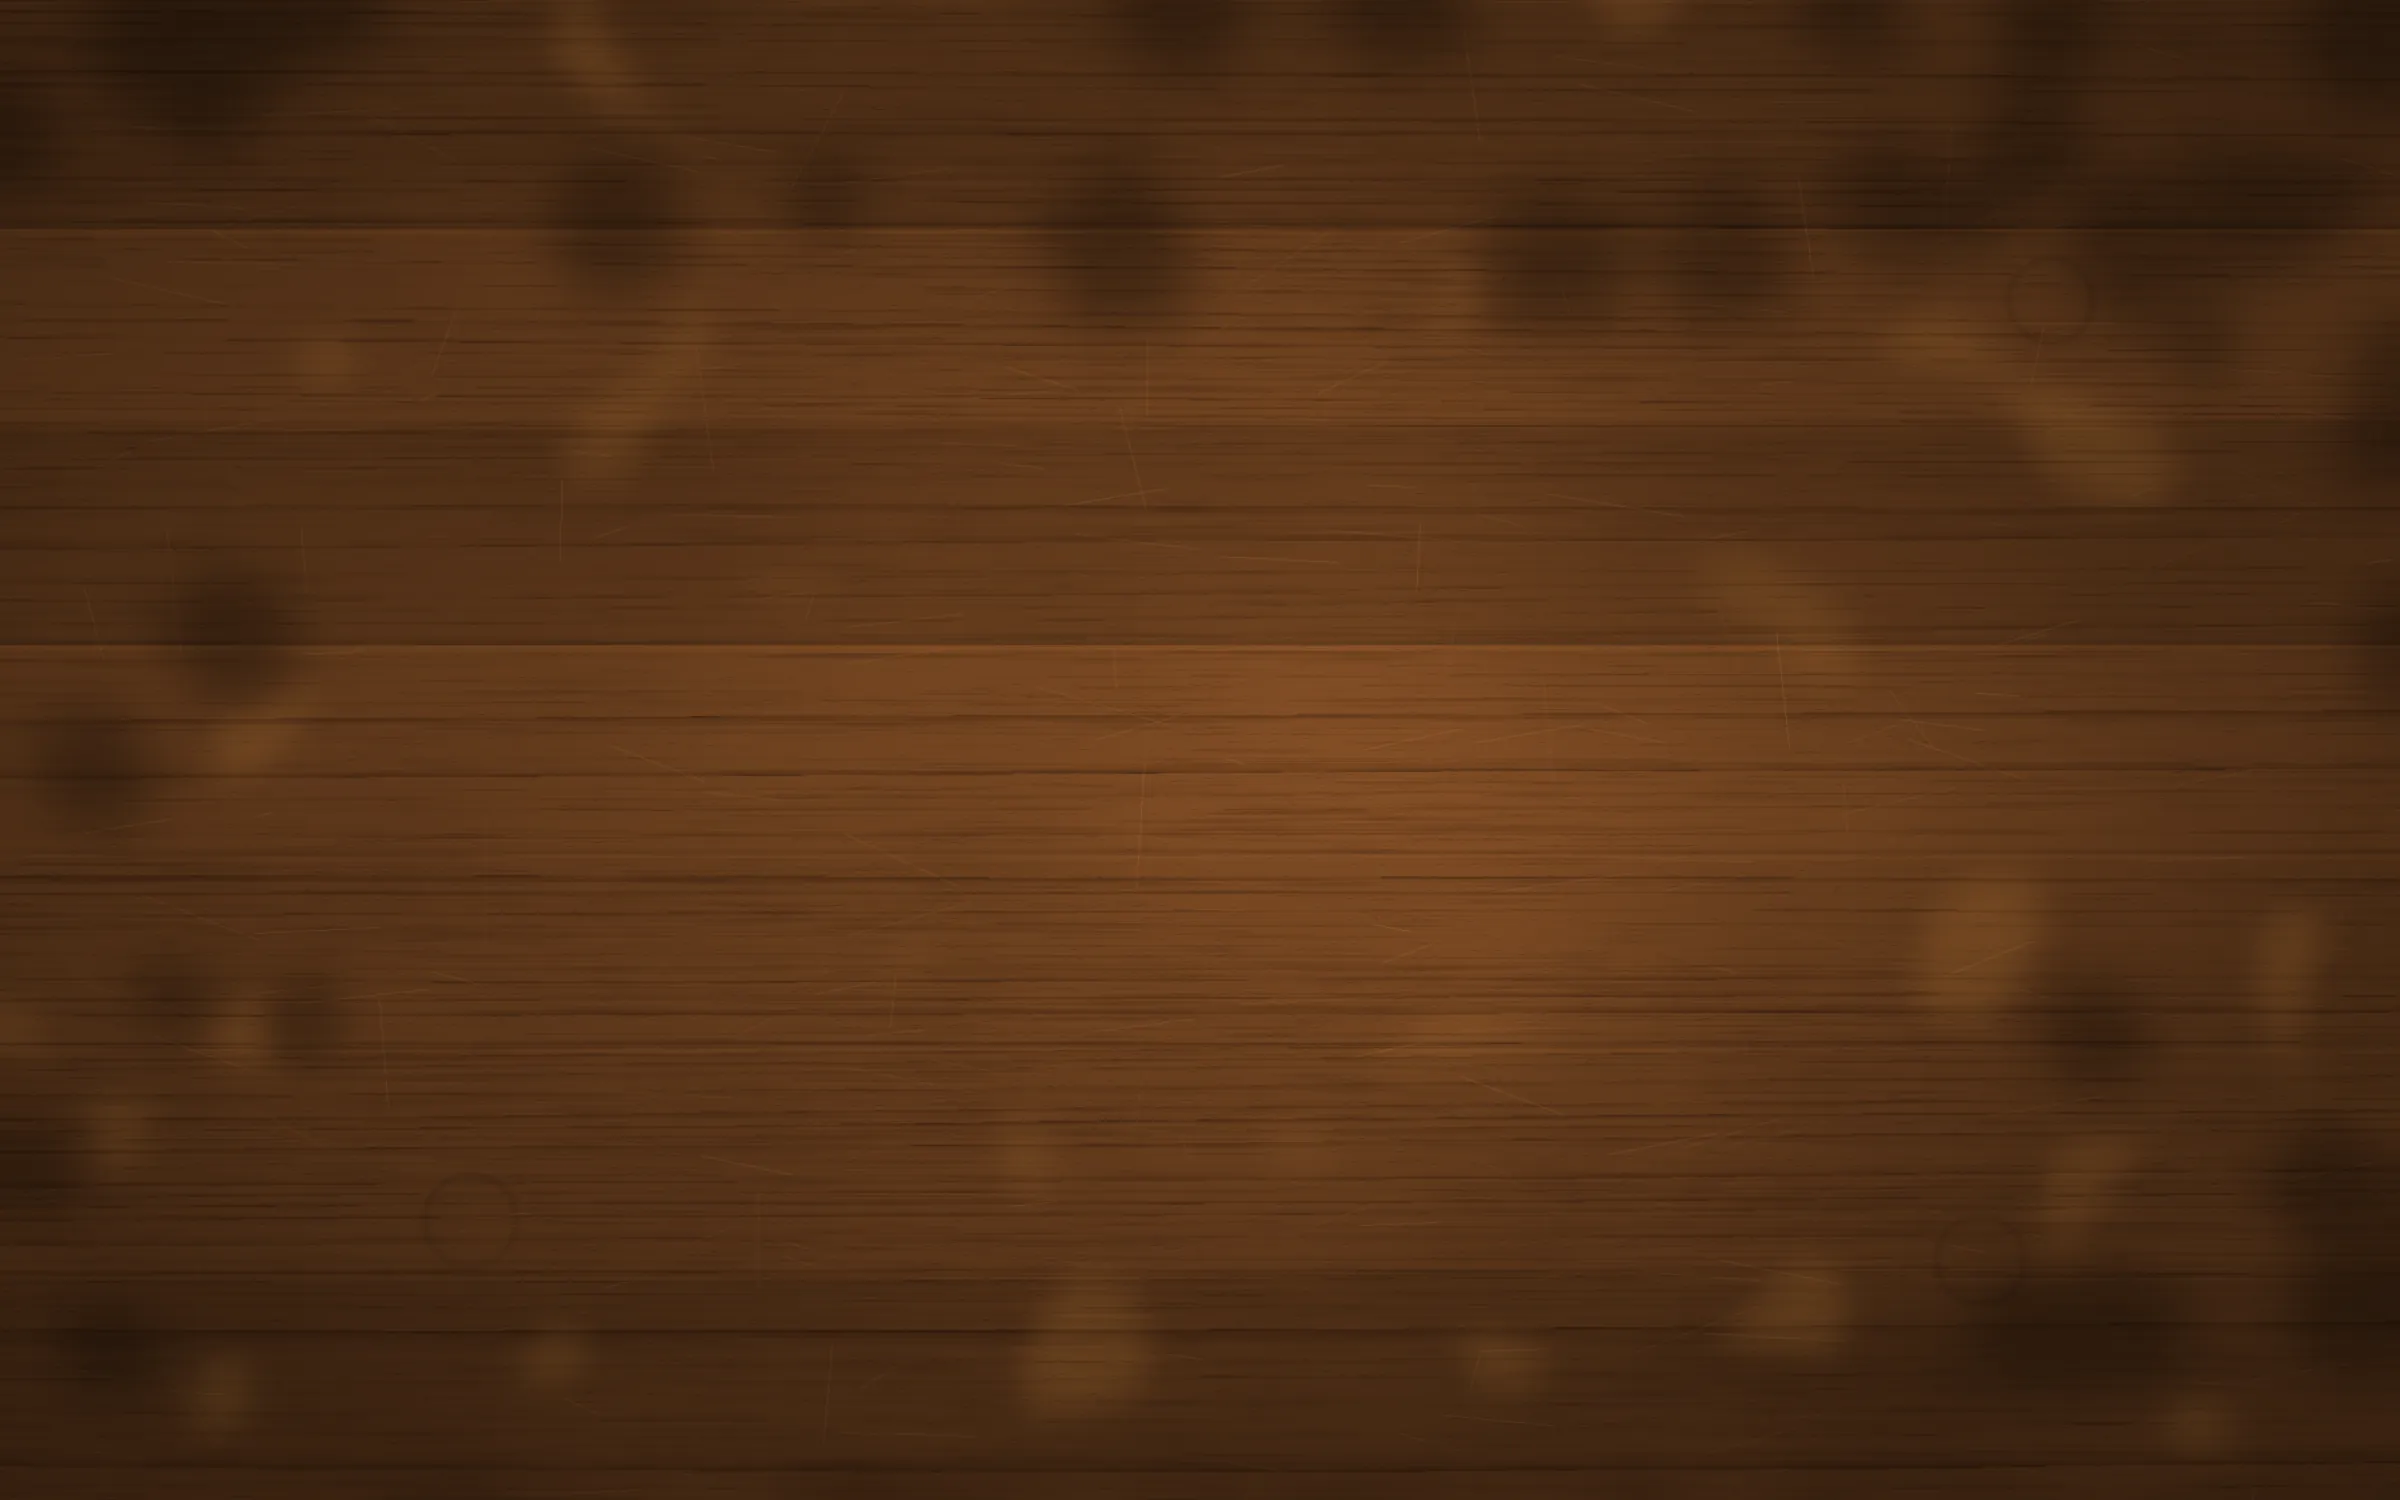
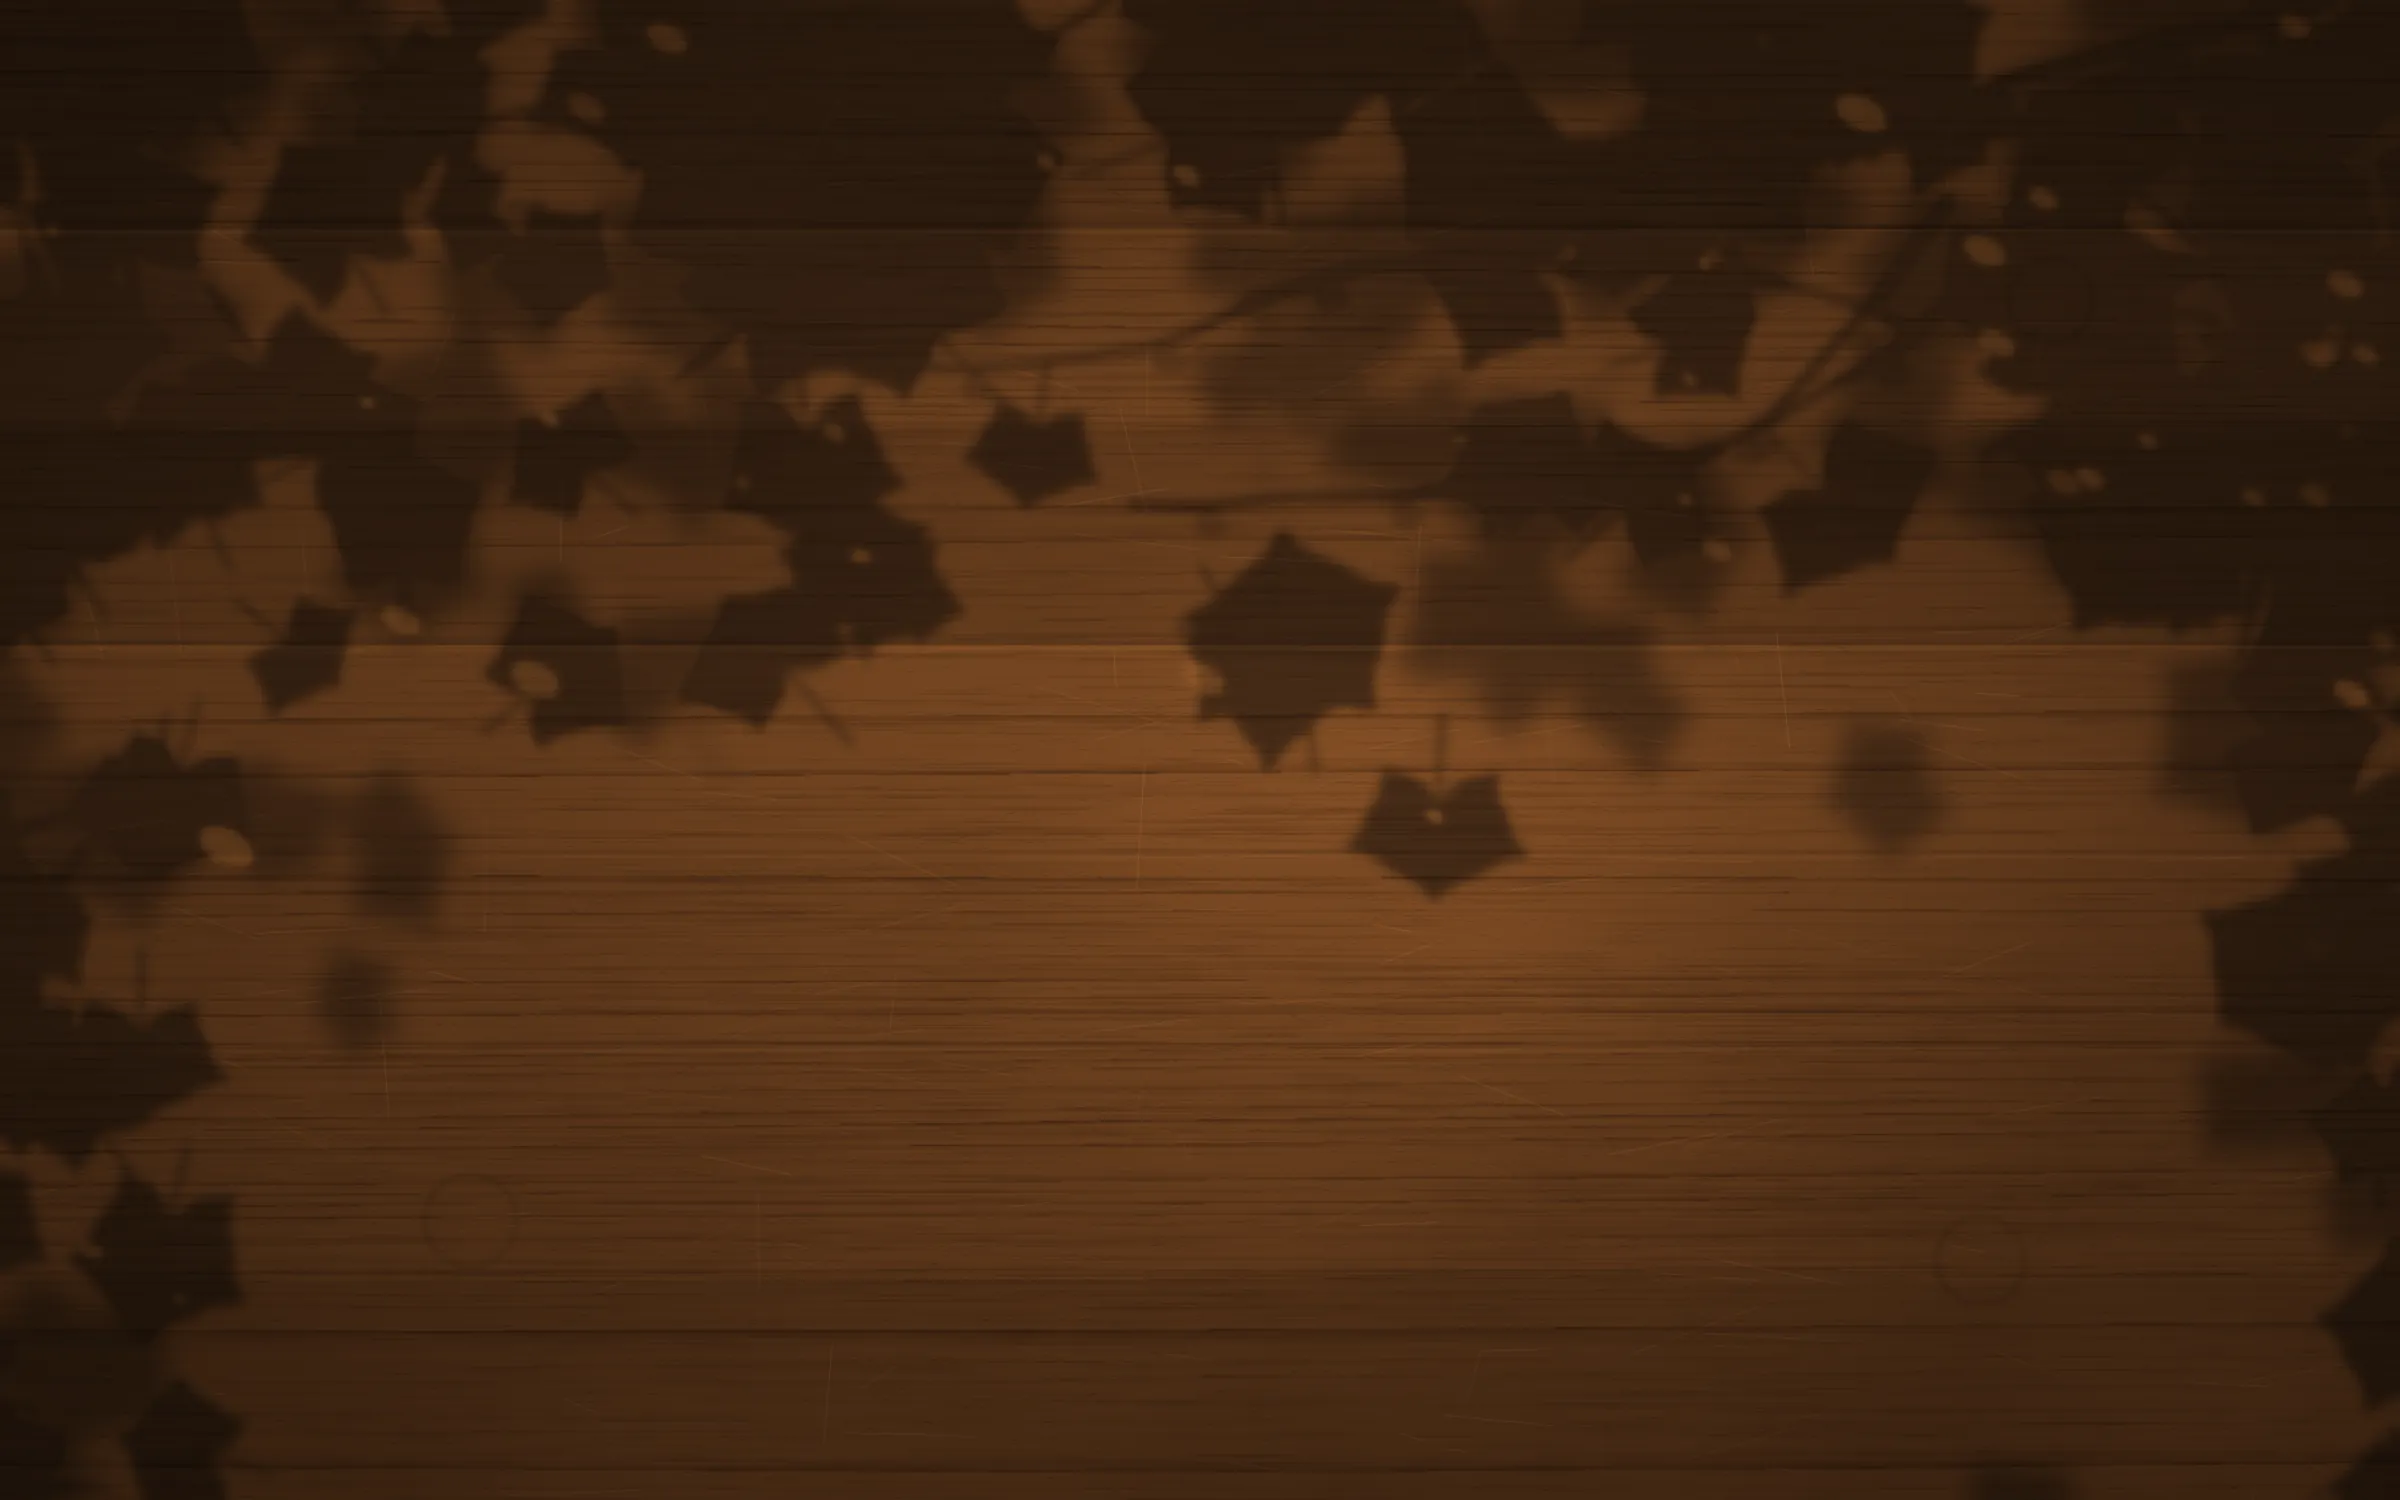
Тень виноградного навеса на столе: настоящие листья вместо пятен
- листья винограда с пятью неглубокими заострёнными лопастями, выемкой у черенка и зубчиками, наклонены по-разному
- низкие листья дают чёткую тень, высокие — размытую; навес гуще у верхнего края и углов, к середине редеет
- лоза с усиками, в густой тени — вытянутые солнечные зайчики

Claude-Session: https://claude.ai/code/session_013vq6NREHT7txoK1nXmxN83

diff --git a/index.html b/index.html
@@ -310,7 +310,7 @@ svg#board{position:absolute;inset:0;width:100%;height:100%;display:block}
 (()=>{
 'use strict';
 const $=id=>document.getElementById(id);
-const APP_VERSION='16';   // совпадает с VERSION в sw.js; добавляется к адресам картинок, чтобы новые доски не брались из старого кэша
+const APP_VERSION='17';   // совпадает с VERSION в sw.js; добавляется к адресам картинок, чтобы новые доски не брались из старого кэша
 const NS='http://www.w3.org/2000/svg';
 const f2=v=>(+v).toFixed(1);
 

diff --git a/sw.js b/sw.js
@@ -1,5 +1,5 @@
 // Офлайн-кэш: страница, доски, звуки и шрифты кэшируются при установке.
-const V = '16';                 // = APP_VERSION в index.html
+const V = '17';                 // = APP_VERSION в index.html
 const VERSION = 'nardy-v' + V;
 const SHELL = [
   './',

diff --git a/tools/render_boards.py b/tools/render_boards.py
@@ -980,29 +980,56 @@ def table_bg():
     img = img * (.9 + .2 * fbm(TH, TW, 4, 6, 120, 3))[..., None]
     gy, gx = np.gradient(ndi.gaussian_filter(hgt, 1.2))
     img = img * (1 + (gy * .08))[..., None]
-    # тень виноградной лозы: листья с пятью лопастями, гуще у краёв, размыты — лоза высоко над столом
-    leaf = np.zeros((TH, TW))
-    lim = Image.new('L', (TW, TH), 0); d = ImageDraw.Draw(lim)
-    for _ in range(46):
-        side = rng.random() * .85
-        if side < .35: cx, cy = rng.uniform(0, TW), rng.uniform(-80, 260)
-        elif side < .6: cx, cy = rng.uniform(-80, 380), rng.uniform(0, TH)
-        elif side < .85: cx, cy = rng.uniform(TW - 380, TW + 80), rng.uniform(0, TH)
-        else: cx, cy = rng.uniform(0, TW), rng.uniform(TH - 240, TH + 80)
-        R = rng.uniform(45, 95); rot = rng.uniform(0, 2 * math.pi)
+    # тень виноградного навеса: навес над верхним краем и углами стола, к середине редеет.
+    # Листья — настоящей формы (пять лопастей, зубчики, черенок), край тени с полутенью; в просветах — вытянутые
+    # солнечные зайчики (солнце под углом), в тени свет чуть холоднее.
+    yy, xx = np.mgrid[0:TH, 0:TW]
+    cover = np.clip(1.15 - yy / (TH * .55), 0, 1) ** 1.3 + np.clip(1 - xx / (TW * .22), 0, 1) ** 2 * .8 \
+        + np.clip(1 - (TW - xx) / (TW * .2), 0, 1) ** 2 * .7
+    cover = np.clip(cover * (.75 + .5 * fbm(TH, TW, 3, 5, 140, 3)), 0, 1)
+    lim = Image.new('L', (TW, TH), 0); lim2 = Image.new('L', (TW, TH), 0); d = ImageDraw.Draw(lim); d2 = ImageDraw.Draw(lim2)
+    def grape_leaf(cx, cy, R, rot, sq=1.0):
         pts = []
-        for t in np.linspace(0, 2 * math.pi, 60):
-            rr = R * (.62 + .38 * abs(math.cos(2.5 * t)) ** .7) * (1 - .25 * max(0, math.cos(t)))
-            pts.append((cx + rr * math.cos(t + rot), cy + rr * math.sin(t + rot)))
-        d.polygon(pts, fill=255)
-    for _ in range(14):                                       # лоза и черешки
-        x0, y0 = rng.uniform(0, TW), rng.uniform(-50, 200) if rng.random() < .6 else rng.uniform(TH - 200, TH + 50)
-        d.line([(x0 + 80 * k + 30 * math.sin(k), y0 + 25 * math.sin(k * 1.3)) for k in range(12)], fill=255, width=9)
-    leaf = ndi.gaussian_filter(np.asarray(lim, float) / 255, 26)
-    img = img * (1 - leaf[..., None] * .32)
-    # солнечные блики сквозь листву у краёв
-    spots = np.clip((vnoise(TH, TW, 14, 22, 130) - .86) / .14, 0, 1) * .6 * (leaf < .25) * (1 - np.exp(-((np.mgrid[0:TH, 0:TW][1] - TW / 2) / 700.) ** 2 - ((np.mgrid[0:TH, 0:TW][0] - TH / 2) / 450.) ** 2))
-    img = img + ndi.gaussian_filter(spots, 14)[..., None] * np.array((.20, .15, .07))
+        for t in np.linspace(0, 2 * math.pi, 140):
+            lobes = .74 + .26 * (1 - abs(math.sin(2.5 * (t - math.pi / 2)))) ** 2.2   # широкий лист, пять неглубоких заострённых лопастей
+            notch = 1 - .55 * math.exp(-((t - 3 * math.pi / 2) / .22) ** 2)       # выемка у черенка
+            teeth = 1 + .035 * abs(math.sin(t * 22))
+            r = R * lobes * notch * teeth
+            lx, ly = r * math.cos(t), r * math.sin(t) * sq      # лист наклонён — тень сплюснута
+            pts.append((cx + lx * math.cos(rot) - ly * math.sin(rot), cy + lx * math.sin(rot) + ly * math.cos(rot)))
+        return pts
+    placed = 0
+    while placed < 300:
+        cx, cy = rng.uniform(-100, TW + 100), rng.uniform(-100, TH + 100)
+        c = cover[int(np.clip(cy, 0, TH - 1)), int(np.clip(cx, 0, TW - 1))]
+        if rng.random() > c: continue
+        R = rng.uniform(60, 120); rot = rng.uniform(0, 2 * math.pi)
+        dd = d if rng.random() < .55 else d2
+        dd.polygon(grape_leaf(cx, cy, R, rot, rng.uniform(.6, 1)), fill=255)
+        dd.line([(cx, cy), (cx - R * 1.2 * math.cos(rot + math.pi / 2), cy - R * 1.2 * math.sin(rot + math.pi / 2))], fill=255, width=5)
+        placed += 1
+    for _ in range(9):                                        # лоза: изогнутые ветви с усиками
+        x0, y0 = rng.uniform(-200, TW), rng.uniform(-60, TH * .35)
+        a0 = rng.uniform(-.4, .4); pts = []
+        for k in range(40):
+            a0 += rng.normal(0, .12); x0 += 28 * math.cos(a0); y0 += 28 * math.sin(a0) * .6; pts.append((x0, y0))
+        d.line(pts, fill=255, width=int(rng.uniform(8, 14)))
+        for k in range(3, 38, 7):
+            sx, sy = pts[k]; d.line(spiral(sx, sy + 18, 16, 1.6, 0, 1, 30), fill=255, width=3)
+    shadow = np.clip(ndi.gaussian_filter(np.asarray(lim, float) / 255, 5) + ndi.gaussian_filter(np.asarray(lim2, float) / 255, 13) * .8, 0, 1)   # низкие листья чёткие, высокие размыты
+    # солнечные зайчики внутри густой тени: эллипсы, вытянутые по направлению солнца
+    fl = Image.new('L', (TW, TH), 0); d = ImageDraw.Draw(fl)
+    for _ in range(400):
+        cx, cy = rng.uniform(0, TW), rng.uniform(0, TH)
+        if shadow[int(cy), int(cx)] < .8 or rng.random() < .75: continue
+        r = rng.uniform(4, 13) * rng.uniform(.6, 1.4); ang = math.radians(28)
+        pts = [(cx + r * 1.7 * math.cos(t) * math.cos(ang) - r * math.sin(t) * math.sin(ang),
+                cy + r * 1.7 * math.cos(t) * math.sin(ang) + r * math.sin(t) * math.cos(ang)) for t in np.linspace(0, 2 * math.pi, 24)]
+        d.polygon(pts, fill=int(rng.uniform(150, 255)))
+    flecks = ndi.gaussian_filter(np.asarray(fl, float) / 255, 3.5) * .8
+    shadow = np.clip(shadow - flecks * .9, 0, 1)
+    img = img * (1 - shadow[..., None] * np.array((.46, .44, .38)))
+    img = img + flecks[..., None] * np.array((.10, .07, .03))
     # тёплый свет в середине стола и затемнение к краям
     yy, xx = np.mgrid[0:TH, 0:TW]
     rr = np.hypot((xx - TW / 2) / (TW * .55), (yy - TH * .5) / (TH * .62))
